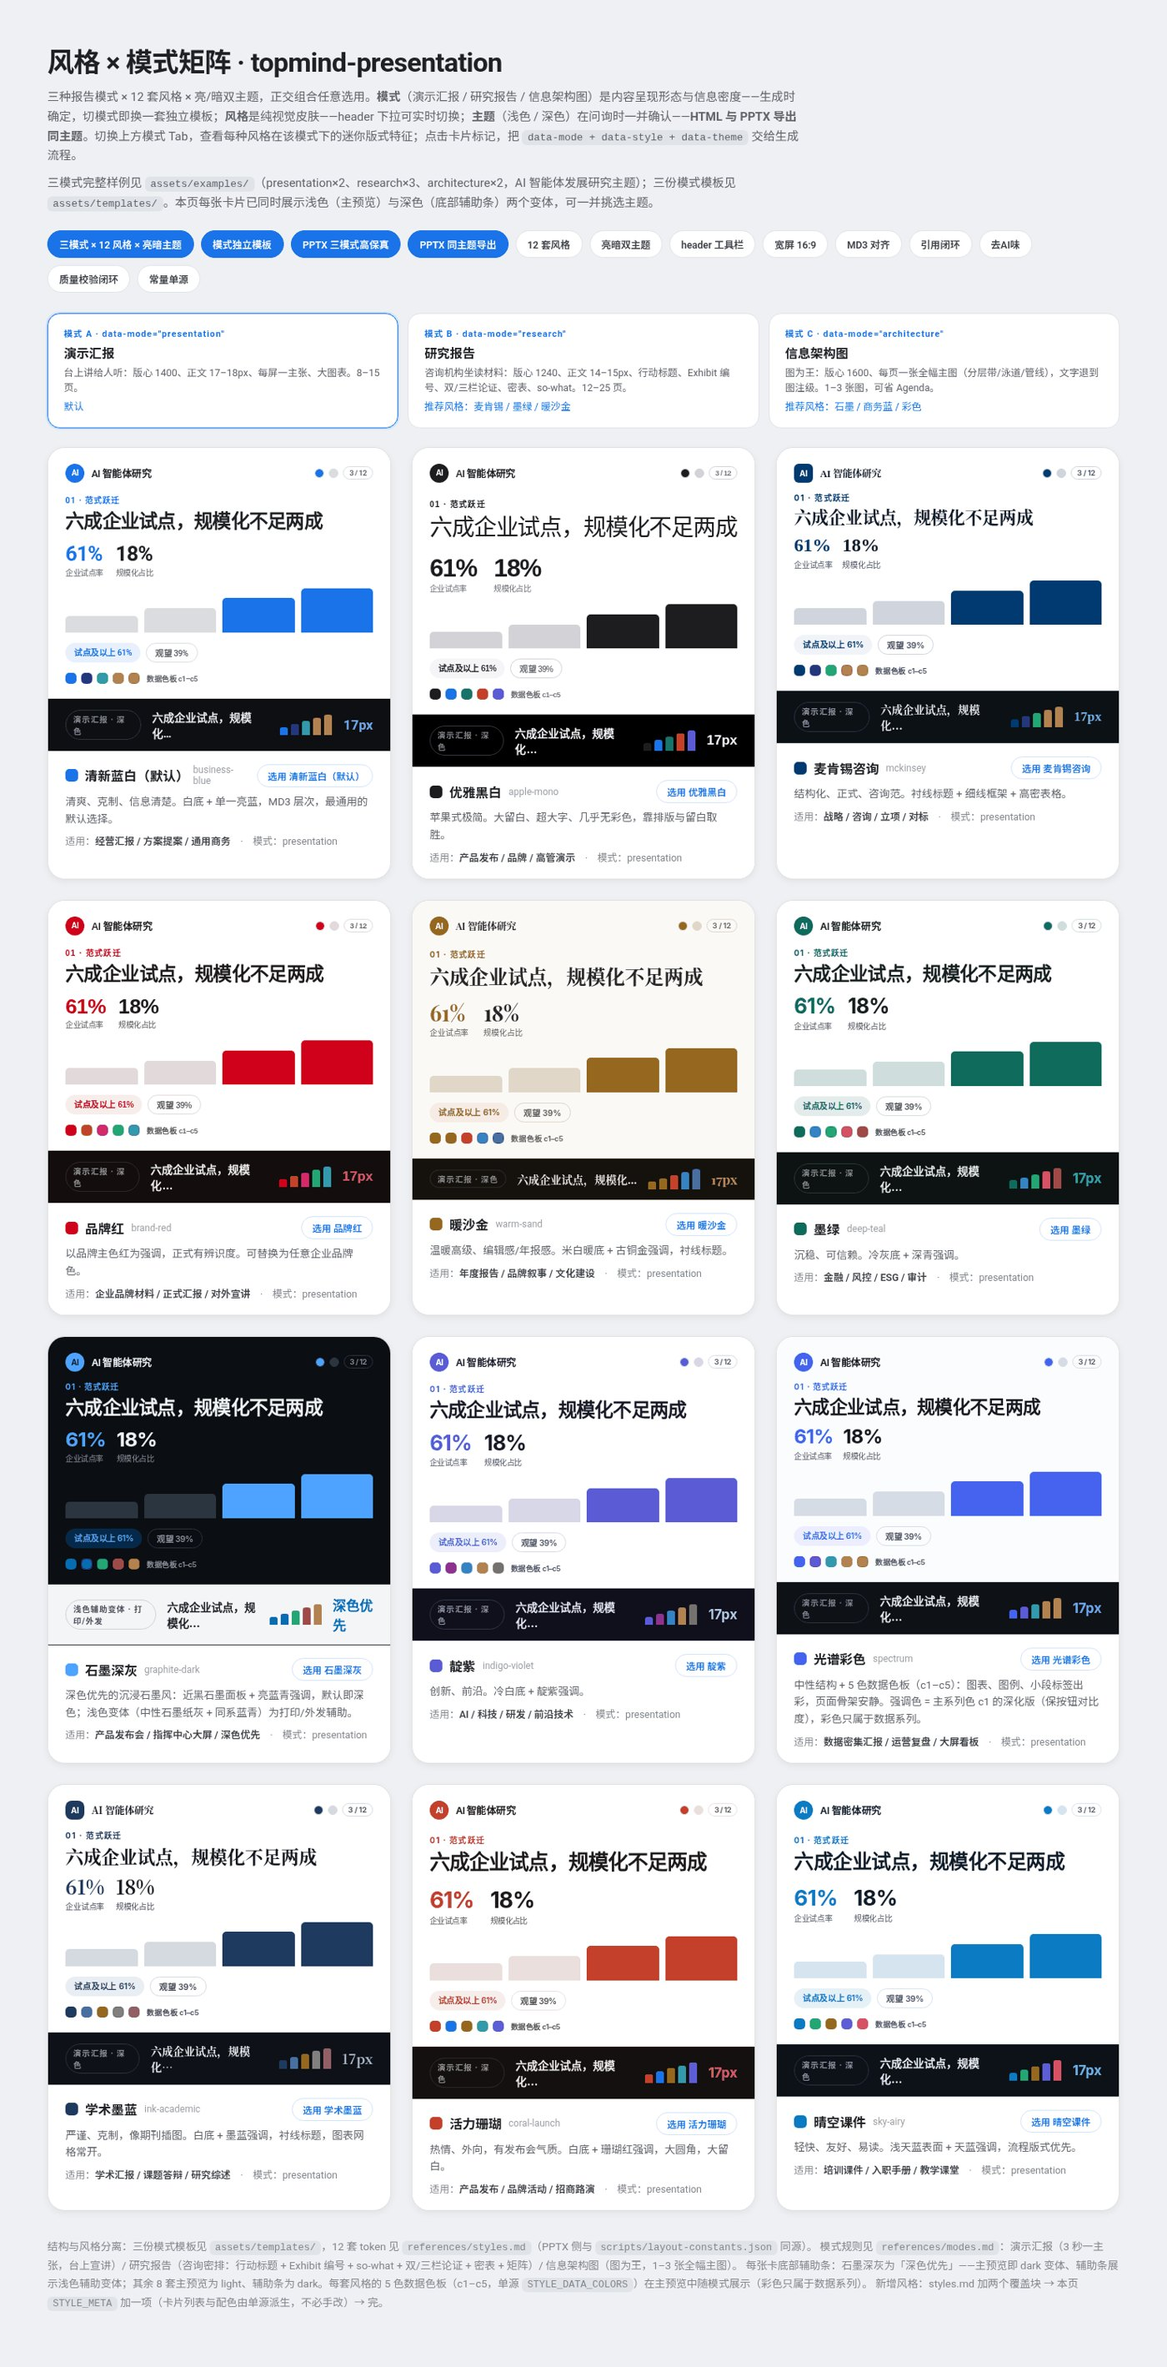
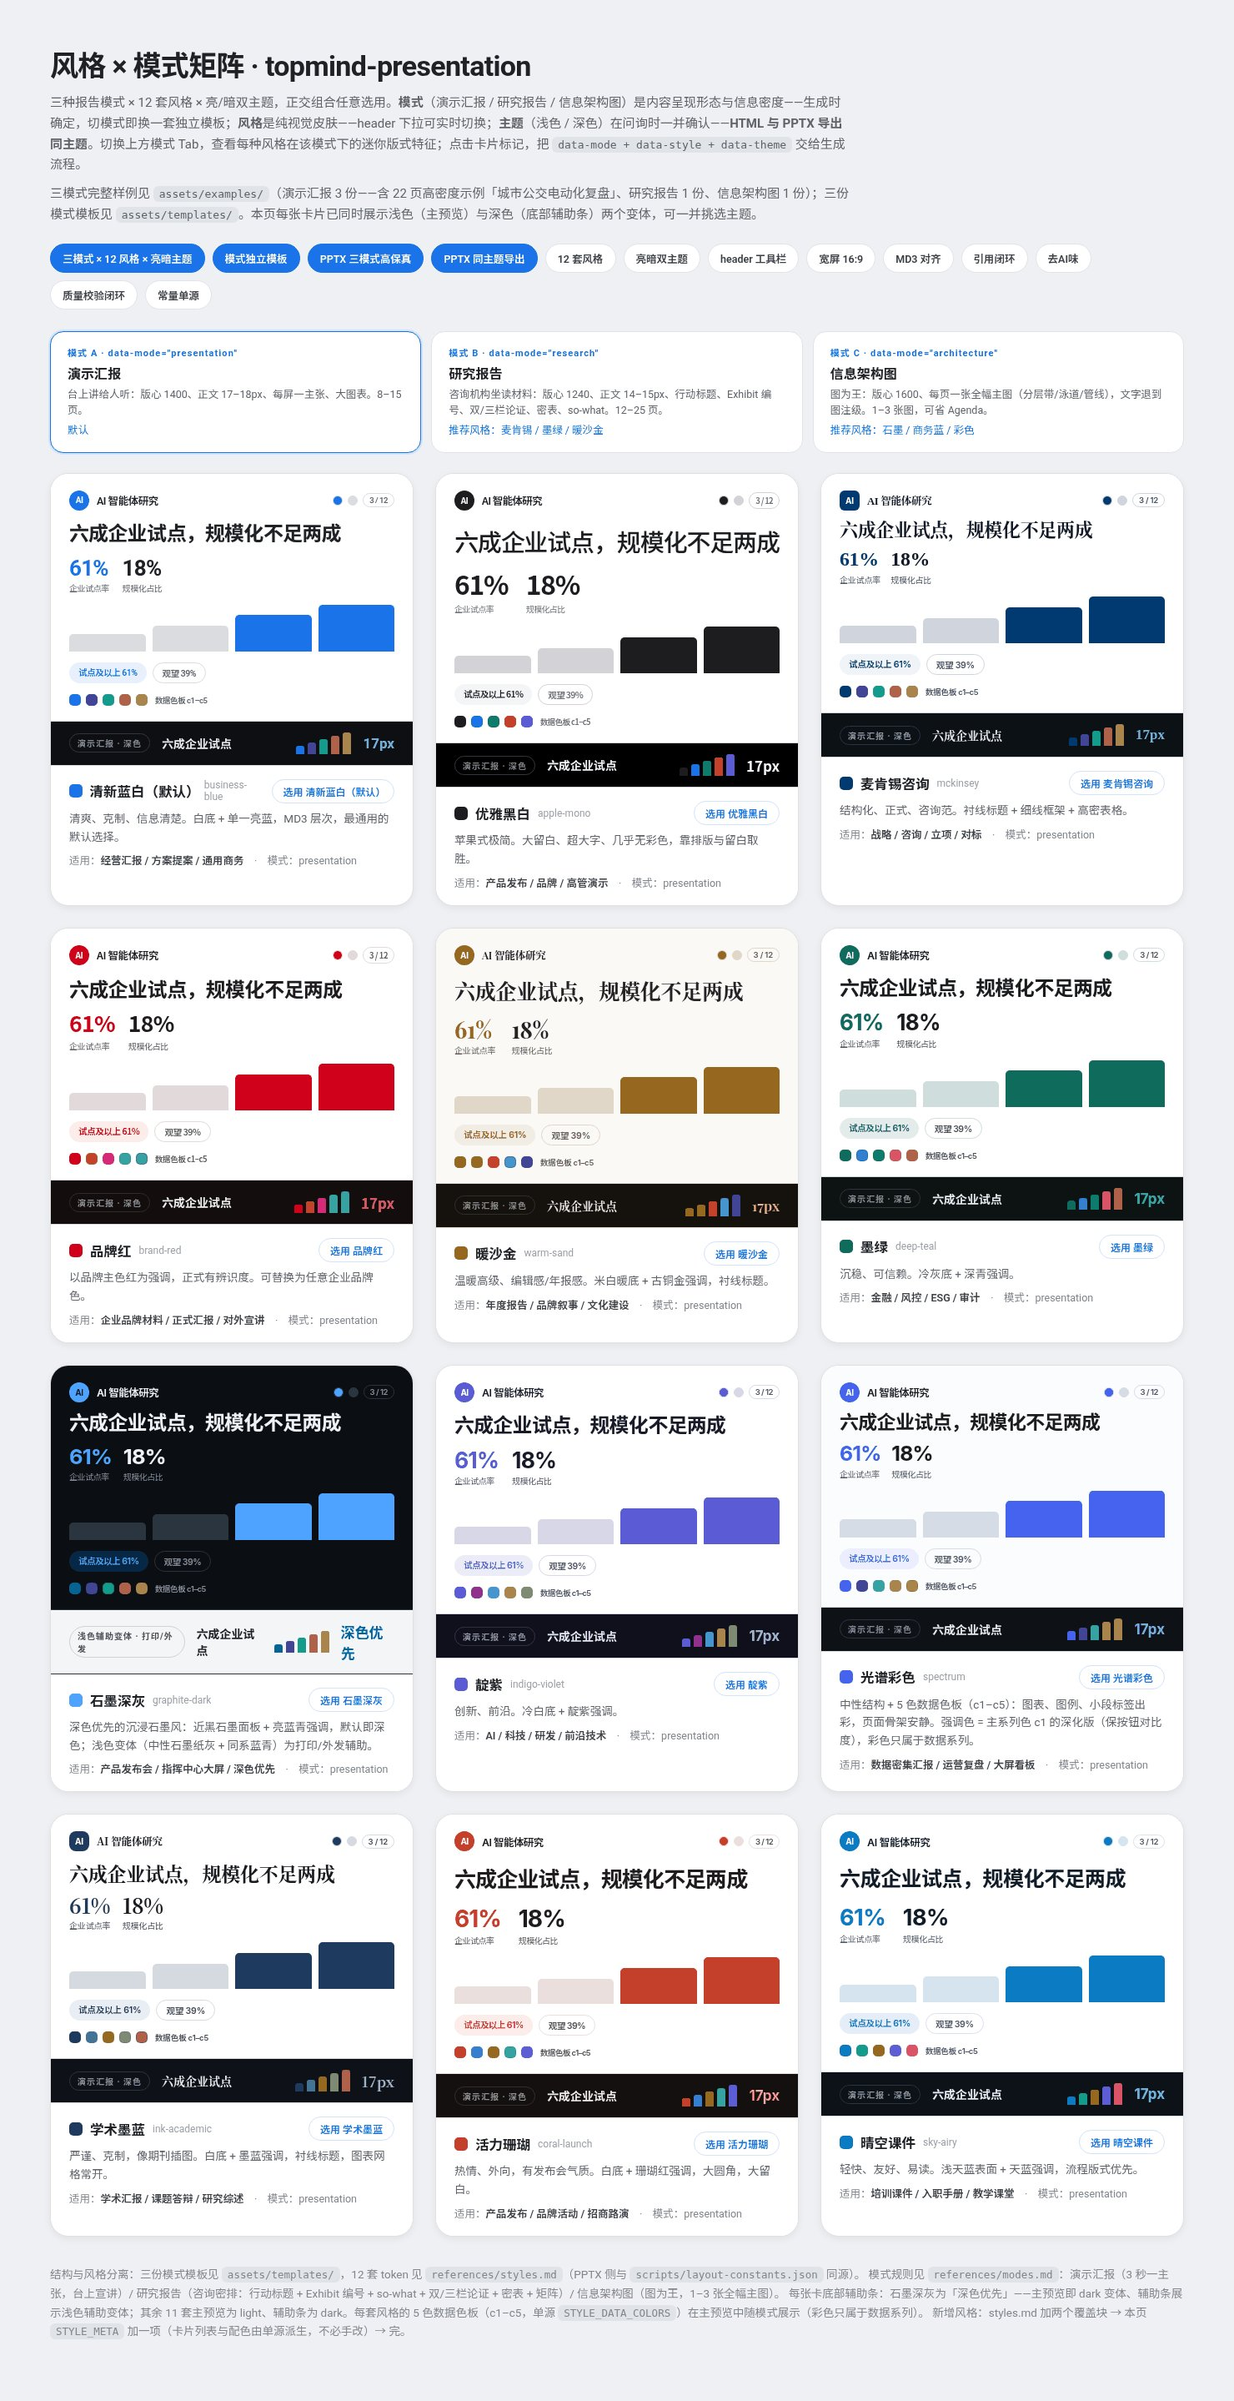
presentation：同步 M13——新增多图表 / 高密度、简单版式、已有 PPT 美化（#beautify）三节与截图，风格总览更新为 12 套；安装命令改为已验证的 npx @topmindspace/topmind-presentation install；英文首次加载时按新排版重新定位锚点

diff --git a/presentation/index.html b/presentation/index.html
@@ -4,14 +4,14 @@
   <meta charset="UTF-8">
   <meta name="viewport" content="width=device-width, initial-scale=1.0">
   <title data-i18n="pp_meta_title">Topmind Presentation｜HTML 幻灯片与可编辑 PPTX</title>
-  <meta name="description" data-i18n-meta="content:pp_meta_description" content="Topmind Presentation 做正式商务演示：台上演示、研究报告、架构说明。日常交付可翻页 HTML，需要时导出可编辑 PPTX，九套风格。">
+  <meta name="description" data-i18n-meta="content:pp_meta_description" content="Topmind Presentation 做正式商务演示：台上演示、研究报告、架构说明。日常交付可翻页 HTML，需要时导出可编辑 PPTX，12 套风格。">
   <meta name="author" content="TopMindSpace">
   <meta name="robots" content="index, follow">
   <meta name="theme-color" content="#fefbff">
   <link rel="canonical" href="https://topmindspace.github.io/presentation/">
 
   <meta property="og:title" data-i18n-meta="content:pp_meta_title" content="Topmind Presentation｜HTML 幻灯片与可编辑 PPTX">
-  <meta property="og:description" data-i18n-meta="content:pp_meta_description" content="Topmind Presentation 做正式商务演示：台上演示、研究报告、架构说明。日常交付可翻页 HTML，需要时导出可编辑 PPTX，九套风格。">
+  <meta property="og:description" data-i18n-meta="content:pp_meta_description" content="Topmind Presentation 做正式商务演示：台上演示、研究报告、架构说明。日常交付可翻页 HTML，需要时导出可编辑 PPTX，12 套风格。">
   <meta property="og:type" content="website">
   <meta property="og:url" content="https://topmindspace.github.io/presentation/">
   <meta property="og:image" content="https://topmindspace.github.io/assets/img/presentation/sample-presentation.jpg">
@@ -21,7 +21,7 @@
 
   <meta name="twitter:card" content="summary_large_image">
   <meta name="twitter:title" data-i18n-meta="content:pp_meta_title" content="Topmind Presentation｜HTML 幻灯片与可编辑 PPTX">
-  <meta name="twitter:description" data-i18n-meta="content:pp_meta_description" content="Topmind Presentation 做正式商务演示：台上演示、研究报告、架构说明。日常交付可翻页 HTML，需要时导出可编辑 PPTX，九套风格。">
+  <meta name="twitter:description" data-i18n-meta="content:pp_meta_description" content="Topmind Presentation 做正式商务演示：台上演示、研究报告、架构说明。日常交付可翻页 HTML，需要时导出可编辑 PPTX，12 套风格。">
   <meta name="twitter:image" content="https://topmindspace.github.io/assets/img/presentation/sample-presentation.jpg">
   <meta name="twitter:site" content="@mspd4100">
 
@@ -121,17 +121,59 @@
         <section class="section" aria-labelledby="styles-title">
             <div class="wrap">
                 <div class="section__head section__head--center reveal">
-                    <span class="eyebrow" data-i18n="pp_styles_eyebrow">九套风格</span>
+                    <span class="eyebrow" data-i18n="pp_styles_eyebrow">12 套风格</span>
                     <h2 id="styles-title" class="headline" data-i18n="pp_styles_title">同一份文件里切换风格。</h2>
-                    <p class="body" data-i18n="pp_styles_lead">亮色适合外发，深色适合大屏。下面是三种模式和九套风格的矩阵。</p>
+                    <p class="body" data-i18n="pp_styles_lead">亮色适合外发，深色适合大屏。下面是三种模式和12 套风格的矩阵。</p>
                 </div>
                 <figure class="matrix shot reveal">
-                    <img src="../assets/img/presentation/theme-overview.jpg" width="1400" height="2329" loading="lazy" data-i18n-attr="alt:pp_styles_alt" alt="Topmind Presentation 风格矩阵：演示、研究、架构三种模式与九套风格">
+                    <img src="../assets/img/presentation/theme-overview.jpg" width="1480" height="2878" loading="lazy" data-i18n-attr="alt:pp_styles_alt" alt="Topmind Presentation 风格矩阵：演示、研究、架构三种模式与12 套风格">
                 </figure>
             </div>
         </section>
 
-        <section class="section section--tonal" aria-labelledby="tool-title">
+        <section class="section section--tonal" id="dense" aria-labelledby="dense-title">
+            <div class="wrap">
+                <div class="section__head reveal">
+                    <span class="eyebrow" data-i18n="pp_dense_eyebrow">多图表与高密度</span>
+                    <h2 id="dense-title" class="headline" data-i18n="pp_dense_title">一页放下几张图，仍然一眼读懂。</h2>
+                    <p class="body" data-i18n="pp_dense_lead">取自仓库里 22 页的「城市公交电动化复盘」示例：仪表盘、杂志版和简单页交替出现，信息密的页后面跟一页留白。</p>
+                </div>
+                <ul class="samples">
+                    <li class="reveal"><figure class="shot"><img src="../assets/img/presentation/dense-dashboard.jpg" width="1440" height="743" loading="lazy" data-i18n-attr="alt:pp_dense_dash_alt" alt="仪表盘页：4 个关键数字、4 张图和一行解读"><figcaption><strong data-i18n="pp_dense_dash_t">仪表盘</strong><span data-i18n="pp_dense_dash_d">4 个关键数字、4 张图和一行解读，配色、坐标和图例共用。</span></figcaption></figure></li>
+                    <li class="reveal"><figure class="shot"><img src="../assets/img/presentation/dense-magazine.jpg" width="1440" height="743" loading="lazy" data-i18n-attr="alt:pp_dense_mag_alt" alt="杂志版页：插图、观点句、两个数字和带图标的要点"><figcaption><strong data-i18n="pp_dense_mag_t">杂志版</strong><span data-i18n="pp_dense_mag_d">一张插图、一句观点、两个数字和带图标的要点。</span></figcaption></figure></li>
+                    <li class="reveal"><figure class="shot"><img src="../assets/img/presentation/dense-focus.jpg" width="1440" height="743" loading="lazy" data-i18n-attr="alt:pp_dense_focus_alt" alt="简单页：一个大数字和一句解释"><figcaption><strong data-i18n="pp_dense_focus_t">简单页</strong><span data-i18n="pp_dense_focus_d">一个数字、一句解释，其余留白。</span></figcaption></figure></li>
+                </ul>
+            </div>
+        </section>
+
+        <section class="section" id="simple" aria-labelledby="simple-title">
+            <div class="wrap">
+                <div class="section__head section__head--center reveal">
+                    <span class="eyebrow" data-i18n="pp_simple_eyebrow">简单版式</span>
+                    <h2 id="simple-title" class="headline" data-i18n="pp_simple_title">一个数字、一句话或一个图标，就是一页。</h2>
+                    <p class="body" data-i18n="pp_simple_lead">简单页有 12 种变体：数字、观点、段落、图标和单图，可以左对齐、居中或分栏。下面是其中四种。</p>
+                </div>
+                <figure class="matrix matrix--wide shot reveal">
+                    <img src="../assets/img/presentation/simple-layouts.jpg" width="1672" height="996" loading="lazy" data-i18n-attr="alt:pp_simple_alt" alt="四种简单页：大数字、居中观点句、图标加说明、单图加解读">
+                </figure>
+            </div>
+        </section>
+
+        <section class="section section--tonal" id="beautify" aria-labelledby="beautify-title">
+            <div class="wrap">
+                <div class="section__head section__head--center reveal">
+                    <span class="eyebrow" data-i18n="pp_beautify_eyebrow">已有 PPT 美化</span>
+                    <h2 id="beautify-title" class="headline" data-i18n="pp_beautify_title">只换版式，不改一个字。</h2>
+                    <p class="body" data-i18n="pp_beautify_lead">原稿只读。新稿出来前，每个字、每个数、图表数据、图片和演讲者备注都与原稿逐项核对。一页多图改成仪表盘或双图对照，表加图改成半表半图。</p>
+                </div>
+                <figure class="matrix matrix--wide shot reveal">
+                    <img src="../assets/img/presentation/beautify-before-after.jpg" width="1592" height="1377" loading="lazy" data-i18n-attr="alt:pp_beautify_alt" alt="运营复盘稿三页的美化前后对比：左边原稿，右边美化后">
+                    <figcaption data-i18n="pp_beautify_cap">每行左边是原稿，右边是美化后。</figcaption>
+                </figure>
+            </div>
+        </section>
+
+        <section class="section" aria-labelledby="tool-title">
             <div class="wrap">
                 <div class="section__head reveal">
                     <span class="eyebrow" data-i18n="pp_tool_eyebrow">HTML 顶栏工具栏</span>
@@ -140,7 +182,7 @@
                 </div>
                 <ul class="keys">
                     <li class="key reveal"><p class="key__name"><kbd>T</kbd><span data-i18n="pp_tool_theme">亮暗主题</span></p><p class="key__desc" data-i18n="pp_tool_theme_d">浅色适合外发，深色适合大屏，按文件记忆。</p></li>
-                    <li class="key reveal"><p class="key__name"><kbd>☰</kbd><span data-i18n="pp_tool_style">风格选择</span></p><p class="key__desc" data-i18n="pp_tool_style_d">九套风格实时切换，只改视觉，不动内容。</p></li>
+                    <li class="key reveal"><p class="key__name"><kbd>☰</kbd><span data-i18n="pp_tool_style">风格选择</span></p><p class="key__desc" data-i18n="pp_tool_style_d">12 套风格实时切换，只改视觉，不动内容。</p></li>
                     <li class="key reveal"><p class="key__name"><kbd>P</kbd><span data-i18n="pp_tool_pptx">预览 PPTX</span></p><p class="key__desc" data-i18n="pp_tool_pptx_d">按页序列预览，可复制提示词回对话来导出。</p></li>
                     <li class="key reveal"><p class="key__name"><kbd>H</kbd><span data-i18n="pp_tool_help">PPT 生成指引</span></p><p class="key__desc" data-i18n="pp_tool_help_d">说明导出 PPTX 的两条通道与环境依赖。</p></li>
                     <li class="key reveal"><p class="key__name"><kbd>F</kbd><span data-i18n="pp_tool_full">全屏</span></p><p class="key__desc" data-i18n="pp_tool_full_d">沉浸式演示，方向键翻页。</p></li>
@@ -149,7 +191,7 @@
             </div>
         </section>
 
-        <section class="section" id="install" aria-labelledby="install-title">
+        <section class="section section--tonal" id="install" aria-labelledby="install-title">
             <div class="wrap">
                 <div class="product reveal">
                     <div class="product__text">
@@ -158,10 +200,10 @@
                     </div>
                     <div>
                         <div class="cmd">
-                            <pre><code>npx skills add topmindspace/topmind-presentation --agent claude-code -g</code></pre>
-                            <button class="icon-btn copy-btn" type="button" data-copy="npx skills add topmindspace/topmind-presentation --agent claude-code -g" data-i18n="copy_label" data-i18n-attr="aria-label:copy_aria" aria-label="复制安装命令">复制</button>
+                            <pre><code>npx @topmindspace/topmind-presentation install</code></pre>
+                            <button class="icon-btn copy-btn" type="button" data-copy="npx @topmindspace/topmind-presentation install" data-i18n="copy_label" data-i18n-attr="aria-label:copy_aria" aria-label="复制安装命令">复制</button>
                         </div>
-                        <p class="note" data-i18n="pres_note">需要 Node.js 22+。HTML 只用 Python 标准库，导出 PPTX 另需 Node。也可用 npm、Release zip 或 git clone，见 README。</p>
+                        <p class="note" data-i18n="pres_note">需要 Node.js 18+（npx 安装和导出 PPTX 都用它）。HTML 只用 Python 标准库。也可用 Release zip 或 git clone，见 README。</p>
                         <dl class="facts">
                             <div class="facts__row"><dt data-i18n="lbl_for">适合谁</dt><dd data-i18n="pres_for">要做汇报、研究报告或架构说明的人。</dd></div>
                         </dl>

diff --git a/index.html b/index.html
@@ -403,15 +403,15 @@ npx @topmindspace/topmind-writing-skills install topmind-wechat-post</code></pre
                             <a class="tag tag--accent" href="https://github.com/topmindspace/topmind-presentation/releases/latest" target="_blank" rel="noopener noreferrer" data-i18n="link_latest">查看最新发布 ↗</a>
                         </div>
                         <span class="product__repo">topmindspace/topmind-presentation</span>
-                        <p class="product__lead" data-i18n="pres_what">正式商务演示技能（TopPPT HTML）。三种成稿：台上演示、研究报告、架构说明。日常是可翻页的 HTML，需要改版式时导出可编辑 PPTX。九套风格，浅色和深色两种主题。</p>
+                        <p class="product__lead" data-i18n="pres_what">正式商务演示技能（TopPPT HTML）。三种成稿：台上演示、研究报告、架构说明。日常是可翻页的 HTML，需要改版式时导出可编辑 PPTX。12 套风格，浅色和深色两种主题。</p>
                         <dl class="facts">
                             <div class="facts__row"><dt data-i18n="lbl_for">适合谁</dt><dd data-i18n="pres_for">要做汇报、研究报告或架构说明的人。</dd></div>
                             <div class="facts__row"><dt data-i18n="lbl_install">安装</dt><dd>
                                 <div class="cmd">
-                                    <pre><code>npx skills add topmindspace/topmind-presentation --agent claude-code -g</code></pre>
-                                    <button class="icon-btn copy-btn" type="button" data-copy="npx skills add topmindspace/topmind-presentation --agent claude-code -g" data-i18n="copy_label" data-i18n-attr="aria-label:copy_aria" aria-label="复制安装命令">复制</button>
+                                    <pre><code>npx @topmindspace/topmind-presentation install</code></pre>
+                                    <button class="icon-btn copy-btn" type="button" data-copy="npx @topmindspace/topmind-presentation install" data-i18n="copy_label" data-i18n-attr="aria-label:copy_aria" aria-label="复制安装命令">复制</button>
                                 </div>
-                                <p class="note" data-i18n="pres_note">需要 Node.js 22+。HTML 只用 Python 标准库，导出 PPTX 另需 Node。也可用 npm、Release zip 或 git clone，见 README。</p>
+                                <p class="note" data-i18n="pres_note">需要 Node.js 18+（npx 安装和导出 PPTX 都用它）。HTML 只用 Python 标准库。也可用 Release zip 或 git clone，见 README。</p>
                             </dd></div>
                         </dl>
                         <p class="links">

diff --git a/assets/js/i18n.js b/assets/js/i18n.js
@@ -170,6 +170,11 @@ const I18n = (function () {
         // Chinese is the default. A saved toggle still wins.
         try {
             await apply(saved === 'en' || saved === 'zh' ? saved : 'zh');
+            // 换成英文后正文变长，浏览器按中文排版跳到的锚点（如 #beautify）会偏下；首次加载时按新排版再定位一次
+            if (location.hash.length > 1) {
+                const target = document.getElementById(decodeURIComponent(location.hash.slice(1)));
+                if (target) target.scrollIntoView();
+            }
         } catch (err) {
             document.documentElement.removeAttribute('data-pending-lang');
             throw err;

diff --git a/assets/css/home.css b/assets/css/home.css
@@ -427,6 +427,7 @@ kbd { display: inline-grid; place-items: center; min-width: 26px; height: 26px; 
 
 .back { display: inline-flex; align-items: center; gap: var(--sp-1); font: var(--type-label); margin-bottom: var(--sp-6); }
 .matrix { max-width: 900px; margin: 0 auto; }
+.matrix--wide { max-width: 1120px; }  /* 横版拼图（简单页四联、美化前后对比）需要更宽 */
 
 /* ---------- 14. Footer ---------- */
 .footer { background: var(--surface-container-low); border-top: 1px solid var(--outline-variant); padding: var(--sp-8) 0 var(--sp-6); font-size: 14px; }
